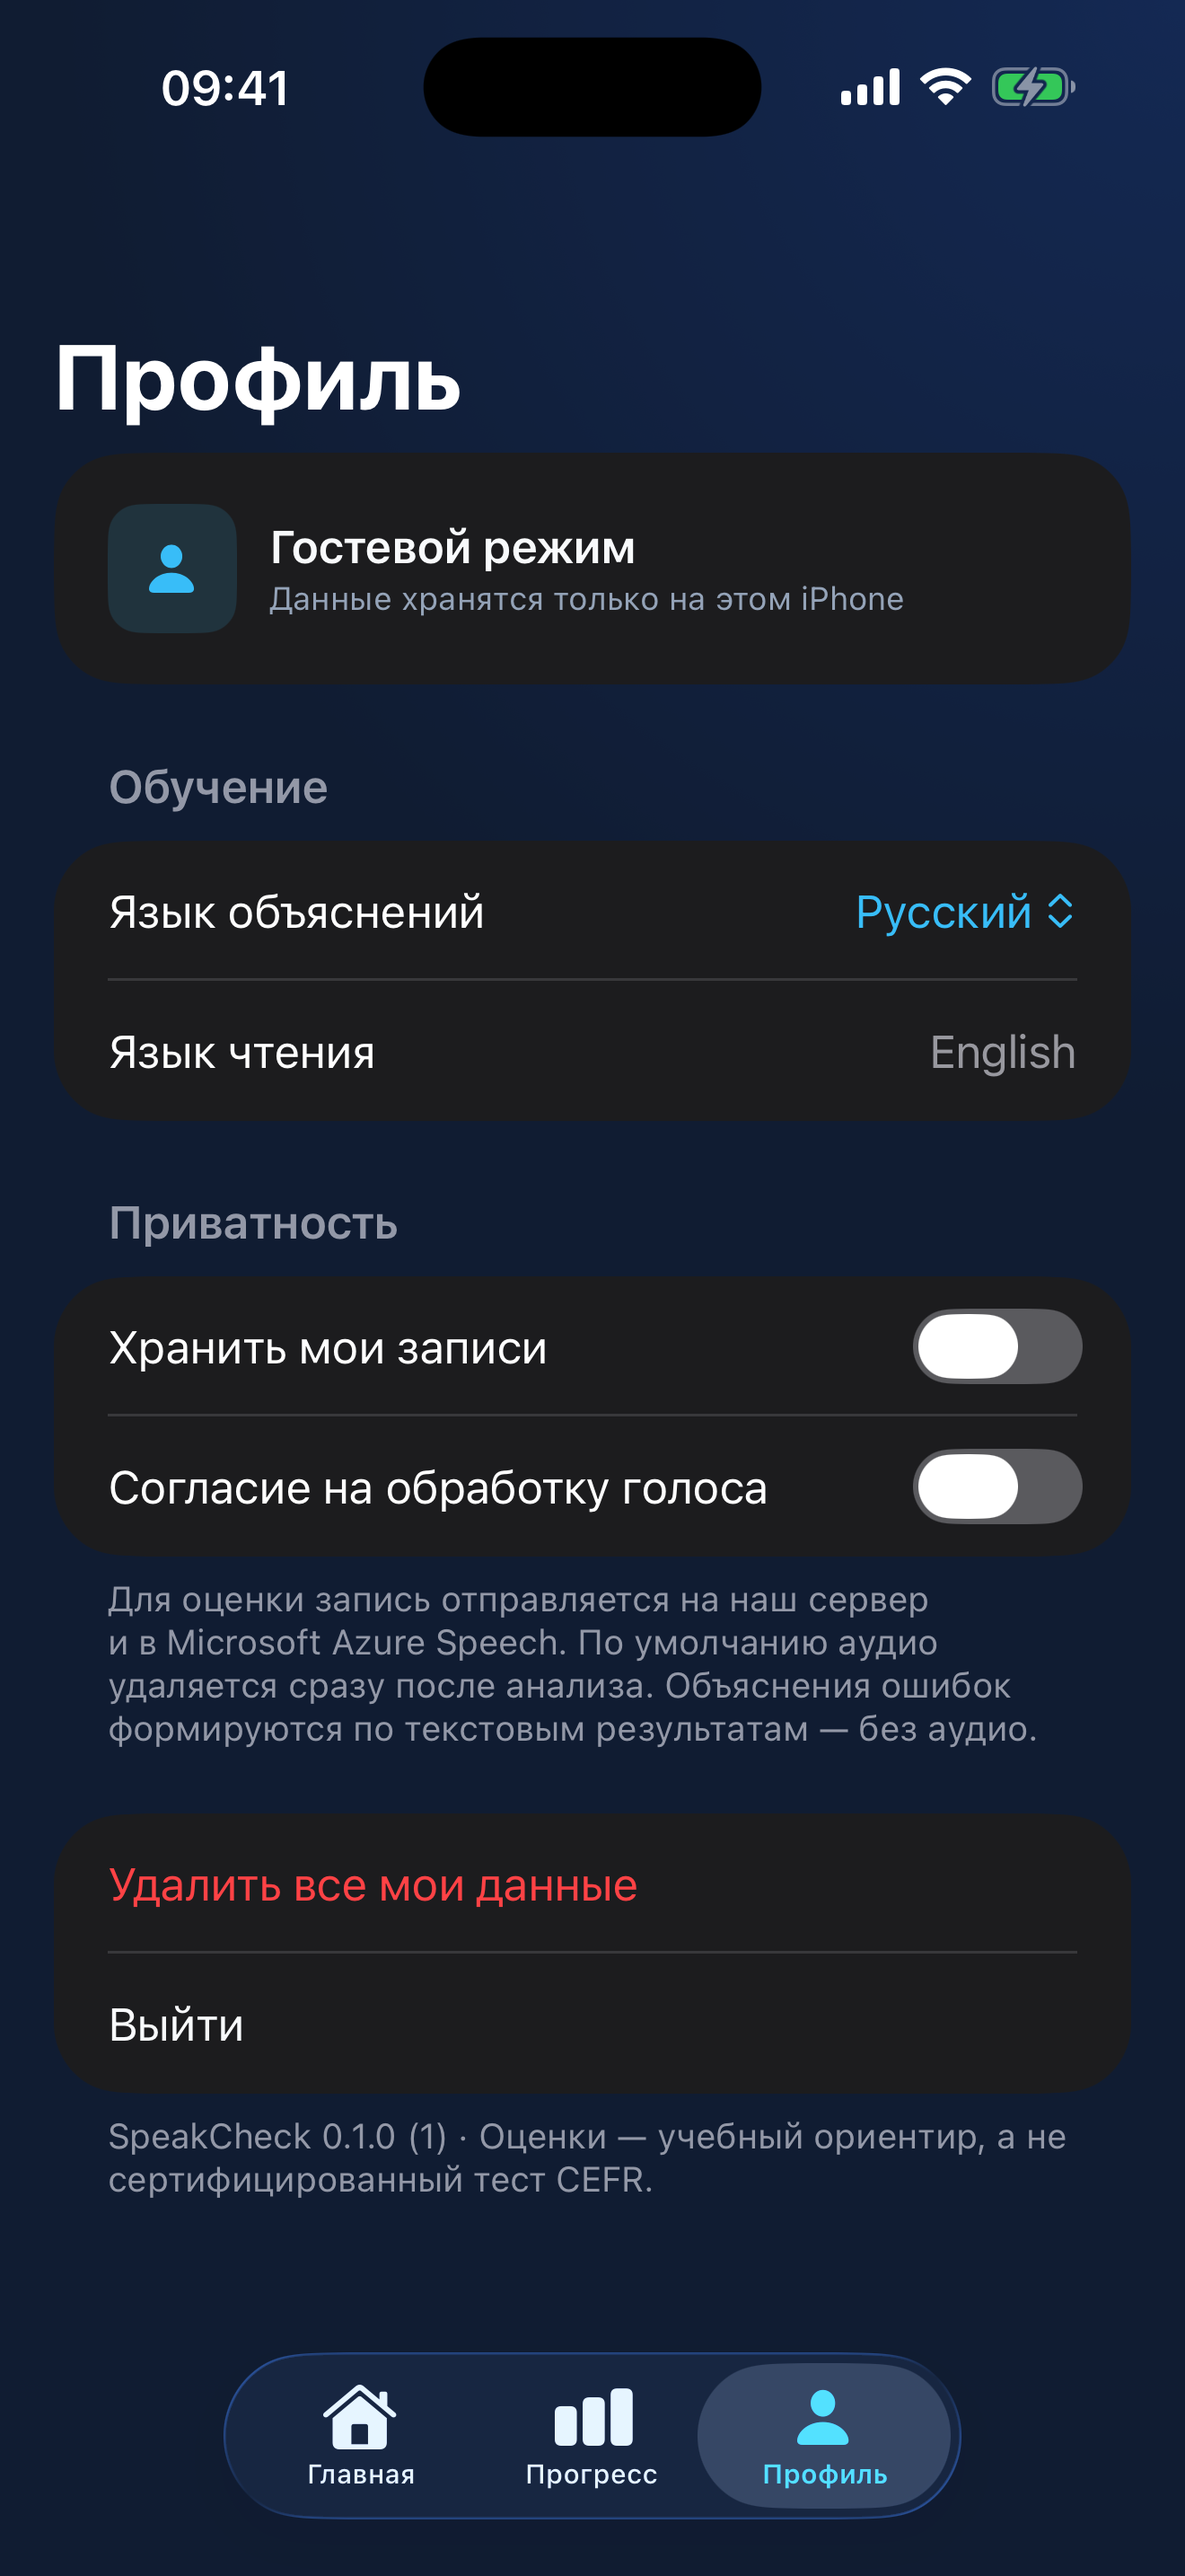
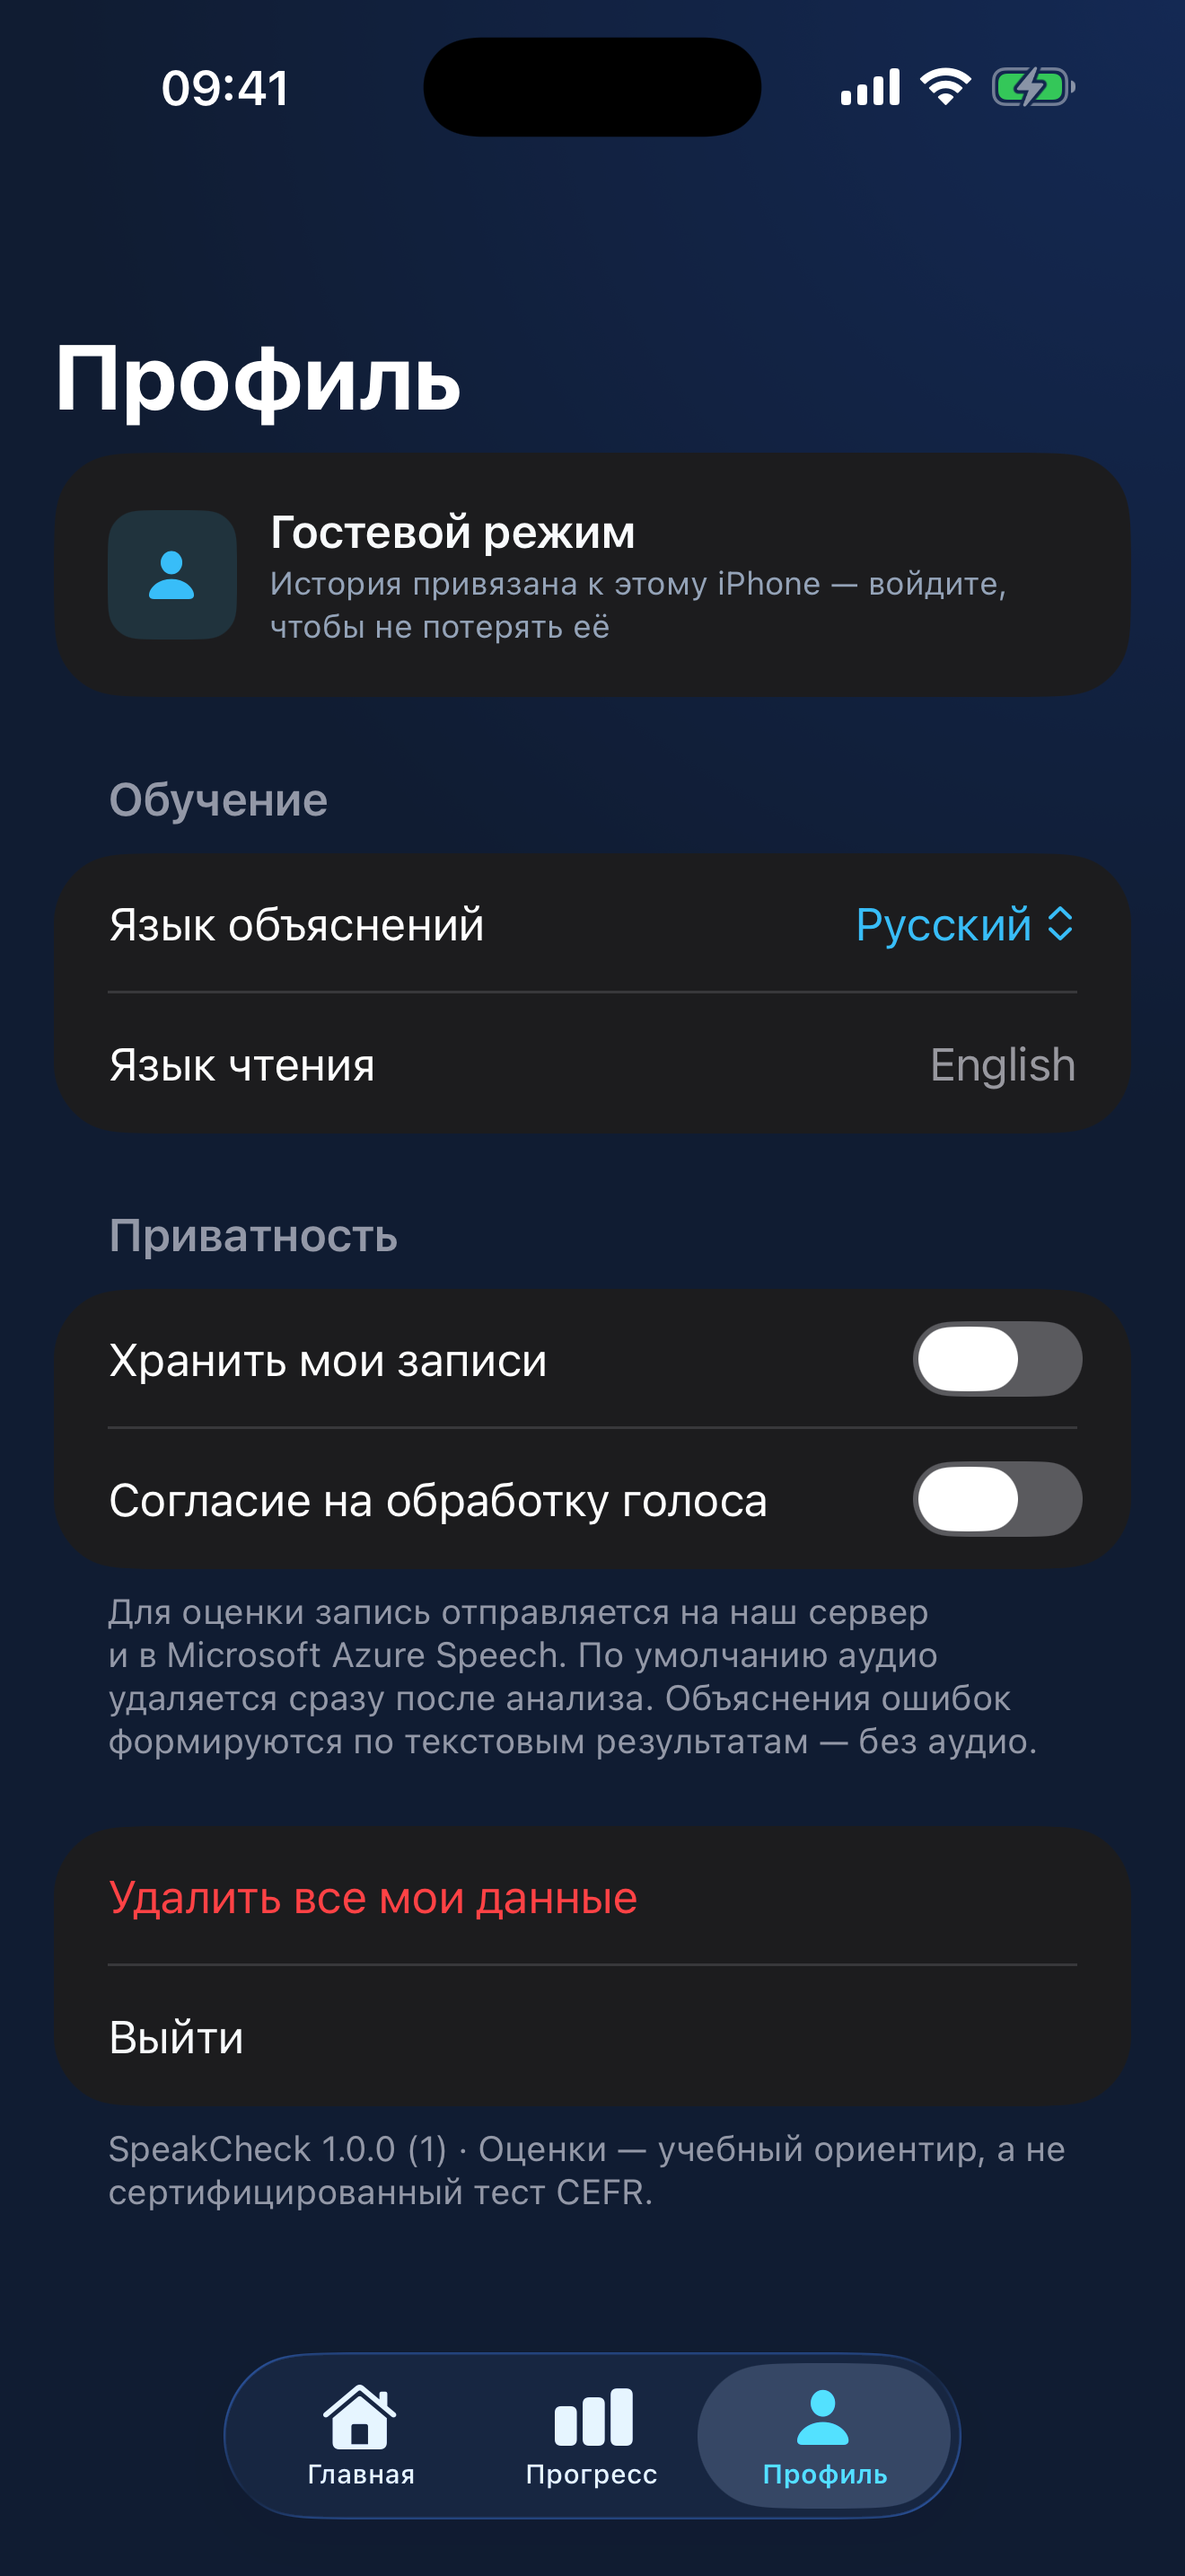
Этап 7 (часть 3): подготовка к App Store — PrivacyInfo, Sign in with Apple entitlement, версия 1.0.0, тексты и анкета приватности, свежие скриншоты 6,9"

diff --git a/docs/appstore.md b/docs/appstore.md
@@ -1,0 +1,81 @@
+# SpeakCheck — материалы для App Store Connect
+
+## Основное
+
+| Поле | Значение |
+|---|---|
+| Название | SpeakCheck: произношение |
+| Подзаголовок (≤30) | Читайте вслух — оценка слов |
+| Bundle ID | kg.speakcheck.app |
+| Категория | Образование (доп.: Справочники) |
+| Возраст | 4+ |
+| Цена | Бесплатно |
+| Основной язык | Русский |
+| Политика конфиденциальности | `https://<DOMAIN>/privacy` |
+| Сайт поддержки | `https://<DOMAIN>/privacy` (или отдельная страница) |
+
+## Описание
+
+Тренируйте английское произношение на своих текстах: рабочих письмах, докладах, учебниках, текстах для собеседования.
+
+Как это работает:
+• Загрузите PDF, Word, TXT или сфотографируйте страницу.
+• Прочитайте фрагмент вслух.
+• Получите оценку 0–100 по точности звуков, беглости, полноте и интонации.
+• Посмотрите, какие слова прозвучали неточно, вплоть до отдельных звуков.
+• Прочитайте объяснение ошибок на русском и повторите трудное слово.
+
+Каждый день:
+• Серия дней подряд и «Слово дня».
+• Личный список трудных слов по вашим реальным попыткам.
+• График прогресса и история всех попыток.
+
+С друзьями:
+• Карточка с результатом для сторис.
+• «Вызов другу»: друг читает тот же текст, и вы сравниваете баллы.
+
+Приватность: запись голоса по умолчанию удаляется сразу после анализа. Можно пользоваться без регистрации.
+
+Оценка — учебный ориентир и не является сертифицированным тестом CEFR/IELTS.
+
+## Ключевые слова (≤100 символов)
+
+`английский,произношение,акцент,english,pronunciation,ielts,говорить,чтение вслух,speaking,тренажер`
+
+## Что нового (1.0.0)
+
+Первая версия: оценка произношения по словам и звукам, объяснения на русском, серии и вызовы друзьям.
+
+## Скриншоты (6,9", 1320×2868)
+
+`docs/screenshots/`: onboarding, home, reader, result, word, history, sharecard.
+Пересъёмка: `ios/scripts/screenshots.sh <SIM_UDID> onboarding home reader result word history sharecard`
+на симуляторе iPhone 17 Pro Max.
+
+## App Privacy (анкета «Конфиденциальность приложения»)
+
+Отслеживание (tracking): **нет**. Реклама и аналитика: **нет**.
+
+| Тип данных | Собирается | Связан с пользователем | Цель |
+|---|---|---|---|
+| Аудиоданные (Audio Data) | Да | Да | Функциональность приложения |
+| Другой пользовательский контент (текст документа) | Да | Да | Функциональность приложения |
+| Идентификатор пользователя (User ID) | Да | Да | Функциональность приложения |
+
+Совпадает с `ios/SpeakCheck/Resources/PrivacyInfo.xcprivacy`.
+
+## Заметки для проверки (App Review Notes)
+
+```
+The app can be used without an account: tap "Попробовать без входа" (Try without sign-in).
+1. Tap a starter text on the Home tab (e.g. "Зачем учить английский").
+2. Tap the microphone, read the English text aloud, tap Stop.
+3. The result shows a 0–100 pronunciation score per word (Microsoft Azure Pronunciation Assessment)
+   and explanations in Russian.
+Account deletion: Profile → "Удалить все мои данные".
+Audio is deleted from our server right after analysis unless the user enables "Хранить мои записи".
+```
+
+## Экспортное соответствие
+
+`ITSAppUsesNonExemptEncryption = NO` уже в Info.plist: используется только стандартный HTTPS.

diff --git a/README.md b/README.md
@@ -47,4 +47,4 @@ xcodebuild -project SpeakCheck.xcodeproj -scheme SpeakCheck -configuration Debug
 | 4 | Azure Pronunciation Assessment | ✅ код + тесты; нужен ключ Azure для живой проверки |
 | 5 | DeepSeek-объяснения | ✅ код + тесты; нужен ключ DeepSeek |
 | 6 | Вирусность: карточка для сторис, вызов другу (ссылка + лендинг), серия дней, слово дня, трудные слова | ✅ |
-| 7 | Тесты, доступность, TestFlight | ⏳ |
+| 7 | Деплой (deploy/), доступность, манифест приватности, материалы App Store (docs/appstore.md) ✅ · TestFlight — нужен Apple Developer Team ID | 🟡 |
